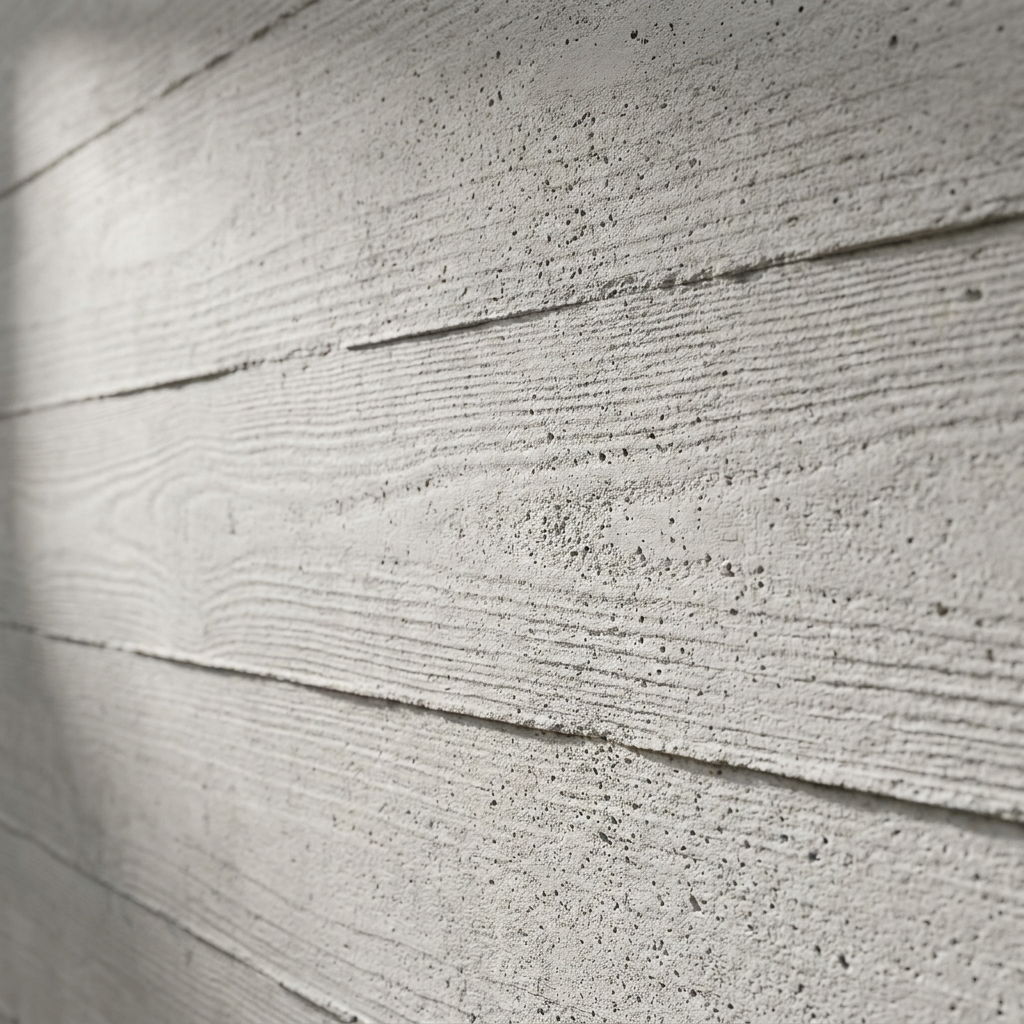
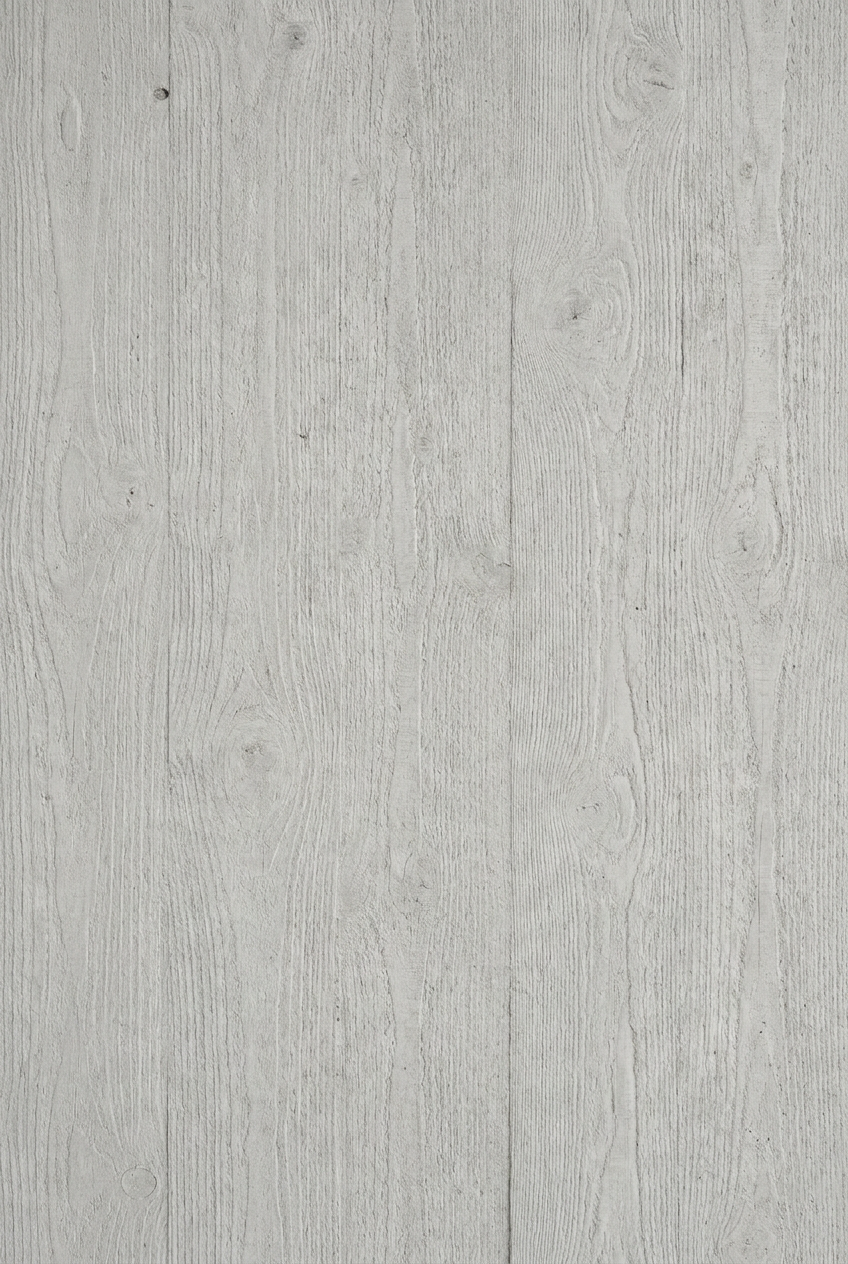
Closeups batch 2 + closeup-eerst fixes
Nieuwe vol-beeld macro closeups: Line Stone, Fine Line Stone, Wood-cement,
Cut Stone. Closeup nu als EERSTE foto (kaart + galerij) bij Zen Ando, Cut Stone
en Fine Line (hadden 'm niet als eerste).

diff --git a/lib/data/catalog.ts b/lib/data/catalog.ts
@@ -258,9 +258,10 @@ const PRODUCT_IMAGE_OVERRIDES: Record<string, ProductImageOverride> = {
     },
   },
   "fine-line-stone-board-": {
-    card: `${MAGIC}/fine-line-stone-board-beige.png`,
+    card: `${MAGIC}/fine-line-stone-board-beige-closeup.png`,
     variants: {
       beige: [
+        `${MAGIC}/fine-line-stone-board-beige-closeup.png`,
         `${MAGIC}/fine-line-stone-board-beige.png`,
         `${MAGIC}/fine-line-stone-board-beige-interior.png`,
         `${MAGIC}/fine-line-stone-board-beige-exterior.png`,
@@ -359,22 +360,22 @@ const PRODUCT_IMAGE_OVERRIDES: Record<string, ProductImageOverride> = {
 
 // --- Single-variant / non-uniform collections (handled by hand) ---
 PRODUCT_IMAGE_OVERRIDES["zen-ando-cement-board"] = {
-  card: `${MAGIC}/zen-ando-cement-board-warm-grey-v2.png`,
+  card: `${MAGIC}/zen-ando-cement-board-warm-grey-closeup-v2.png`,
   variants: {
     "warm grey": [
+      `${MAGIC}/zen-ando-cement-board-warm-grey-closeup-v2.png`,
       `${MAGIC}/zen-ando-cement-board-warm-grey-v2.png`,
       `${MAGIC}/zen-ando-cement-board-warm-grey-interior-v2.png`,
-      `${MAGIC}/zen-ando-cement-board-warm-grey-closeup-v2.png`,
     ],
   },
 };
 PRODUCT_IMAGE_OVERRIDES["cut-stone-"] = {
-  card: `${MAGIC}/cut-stone-beige.png`,
-  // Only a product shot + flex hero per colour for now.
+  card: `${MAGIC}/cut-stone-beige-closeup.png`,
+  // Lead with the woven-stone texture close-up; product shot follows.
   variants: {
     red: [`${MAGIC}/cut-stone-red.png`],
     grey: [`${MAGIC}/cut-stone-grey.png`],
-    beige: [`${MAGIC}/cut-stone-beige.png`],
+    beige: [`${MAGIC}/cut-stone-beige-closeup.png`, `${MAGIC}/cut-stone-beige.png`],
   },
 };
 PRODUCT_IMAGE_OVERRIDES["rockface-stone"] = {